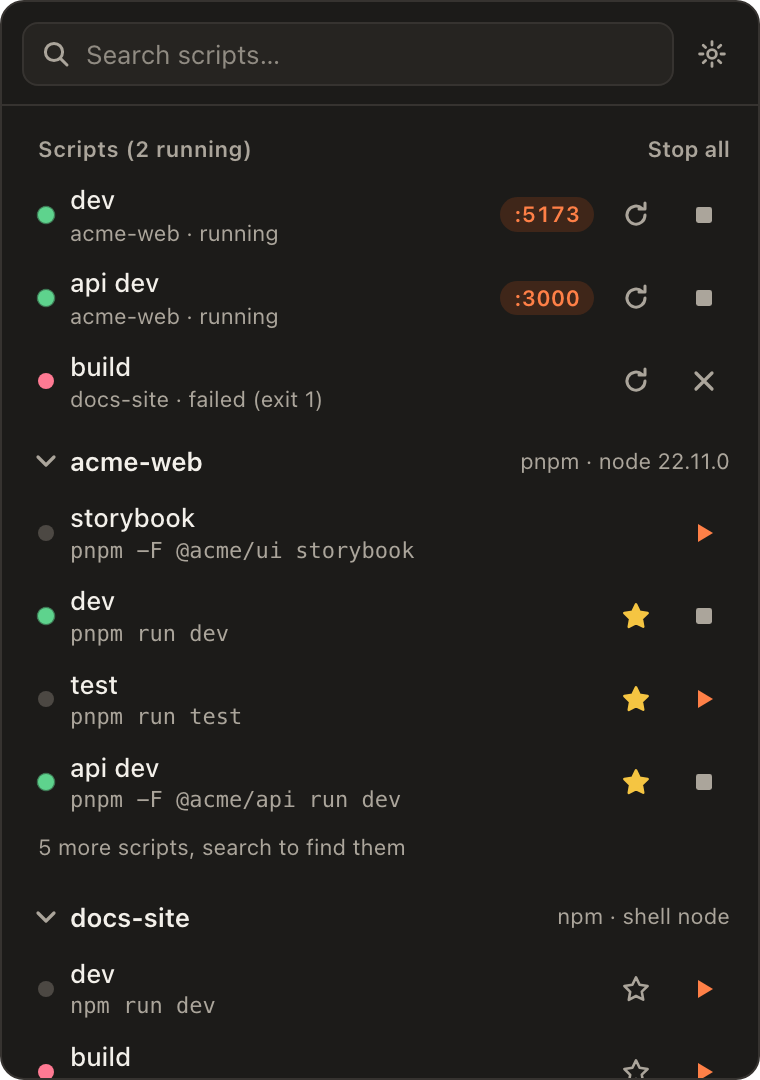
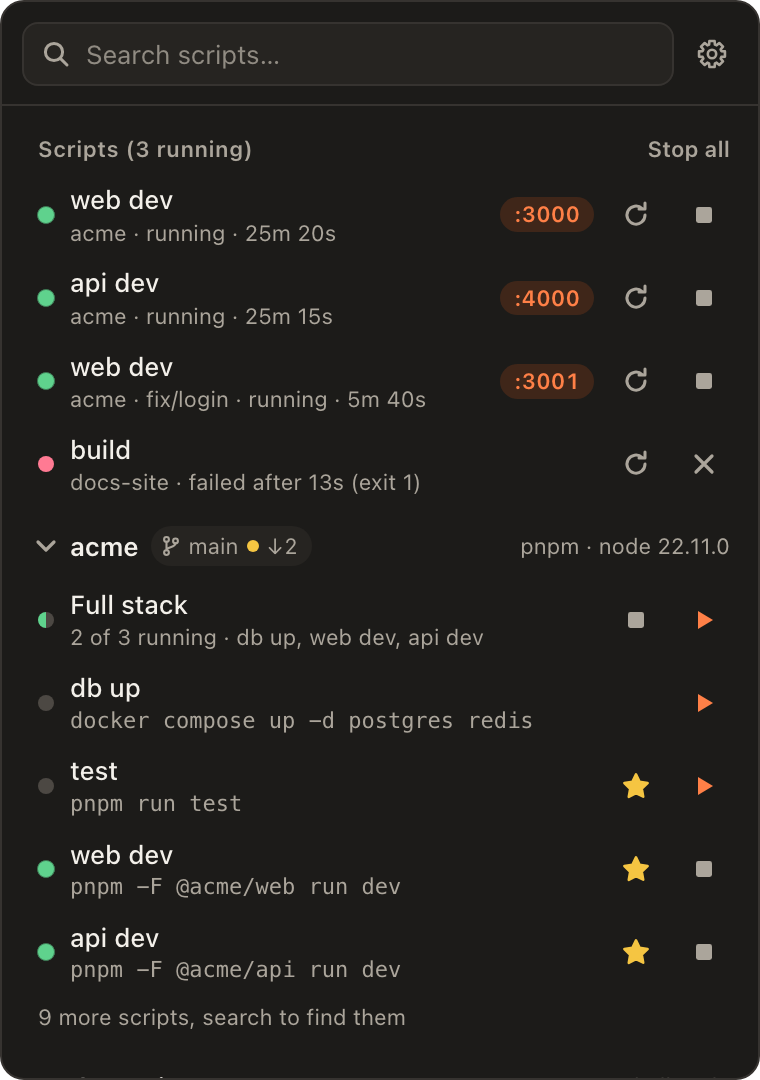
Show branches, worktrees and the new project page in the screenshots
The menu bar shot now has the same dev server running in two worktrees and
a project's branch chip and group. The Settings shot shows the reworked
project page from #22, with its branch in the header.

diff --git a/README.md b/README.md
@@ -13,7 +13,7 @@ Dev servers, watchers and one-off tasks keep running in the background, each in 
 
 <picture>
   <source media="(prefers-color-scheme: dark)" srcset="docs/popover-dark.png">
-  <img src="docs/popover-light.png" width="380" alt="The ScriptDeck menu bar window: two dev servers running with links to their ports, a failed build, and each project's pinned scripts">
+  <img src="docs/popover-light.png" width="380" alt="The ScriptDeck menu bar window: the same dev server running in two worktrees, an API server and a failed build, then a project's branch, group and pinned scripts">
 </picture>
 
 </div>
@@ -47,7 +47,7 @@ Open Settings from the gear in the menu bar window, or right-click the icon.
 
 <picture>
   <source media="(prefers-color-scheme: dark)" srcset="docs/settings-dark.png">
-  <img src="docs/settings-light.png" width="860" alt="The Settings window: a project's Node version, toolkit, custom scripts and package.json scripts">
+  <img src="docs/settings-light.png" width="860" alt="The Settings window: a project's branch, custom scripts, group and package.json scripts">
 </picture>
 
 - **Projects.** Add a folder with the + button, clone a repository with the button beside it, or drop folders on the window. Each project has its Node version, toolkit, git branch and worktrees, custom commands, groups and `package.json` scripts.
